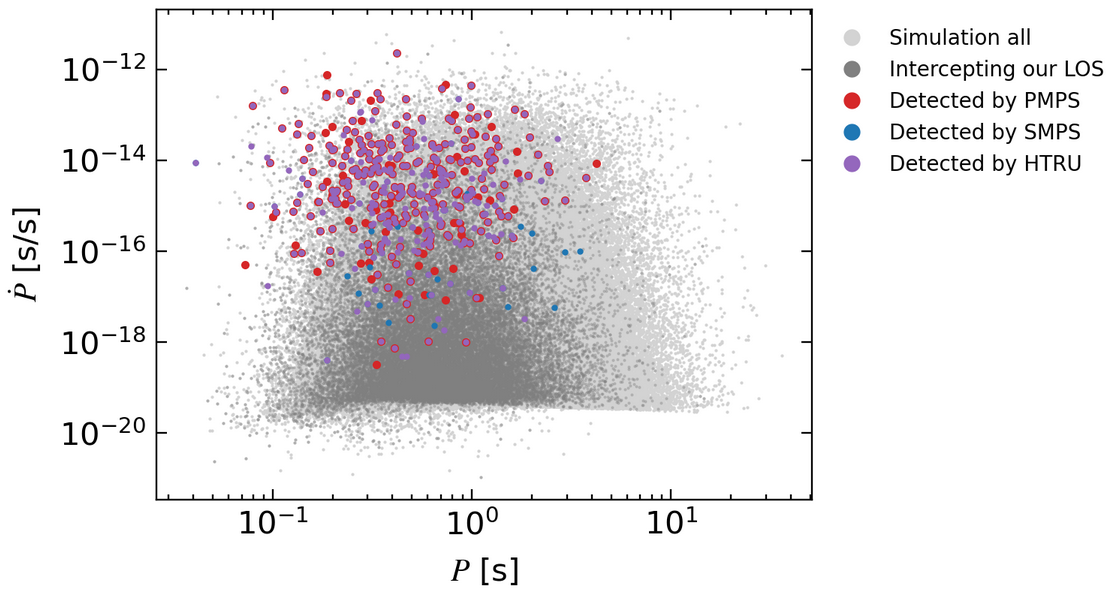
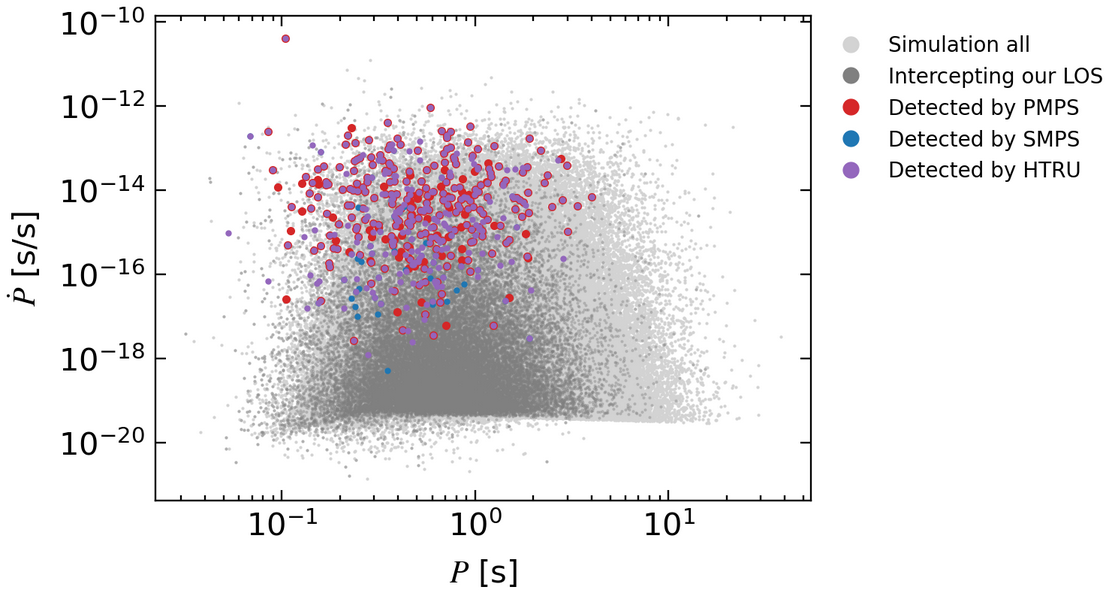
Some updates to address Celsa's comments.

diff --git a/docs/index.md b/docs/index.md
@@ -3,12 +3,12 @@
 Neutron star population synthesis code for isolated pulsars developed as part of the ERC project MAGNESIA - 
 The Magnetar Census.
 
-The population synthesis framework in this repository integrates population synthesis to model the birth properties 
-and evolution of the population of Galactic neutron stars with deep learning techniques to perform parameter 
-inference and constrain their physical properties.
+The population synthesis framework in this repository models the birth properties and evolution of the population of 
+Galactic neutron stars. It is also integrated with a deep learning framework to perform parameter 
+inference and constrain its physical properties.
 
 You can simulate a population of neutron stars and model the detection from three different surveys performed with the 
-Murriyang Parkes telescope with just a few steps:
+Murriyang Parkes telescope, with just a few steps:
 ```python
 import argparse
 from pypopsyn.simulator.config_simulator import cfg
@@ -28,6 +28,12 @@ simulation_args = argparse.Namespace(
 )
 simulate_population(simulation_args)
 ```
+The surveys considered are the following:
+
+1. PMPS: the Parks Multibeam Pulsar Survey (see [Manchester et al. 2001](https://ui.adsabs.harvard.edu/abs/2001MNRAS.328...17M/abstract), [Lorimer et al. 2006](https://ui.adsabs.harvard.edu/abs/2006MNRAS.372..777L/abstract))
+2. SMPS: the Swinburne Parkes Multibeam Pulsar Survey (see [Edwards et al. 2001](https://ui.adsabs.harvard.edu/abs/2001MNRAS.326..358E/abstract), [Jacoby et al. 2009](https://ui.adsabs.harvard.edu/abs/2009ApJ...699.2009J/abstract))
+3. HTRU: the High Time Resolution Universe Survey (see [Keith et al. 2010](https://ui.adsabs.harvard.edu/abs/2010MNRAS.409..619K/abstract))
+
 Here we show the result of the distribution in the sky and in the $P-\dot{P}$ diagram of the simulated population.
 ![Sky distribution in Galactic coordinates of the simulated neutron stars.](./images/simulated_sky.png)
 ![Distribution in the $P-\dot{P}$ dyagram of the simulated neutron stars.](./images/simulated_ppdot.png)
